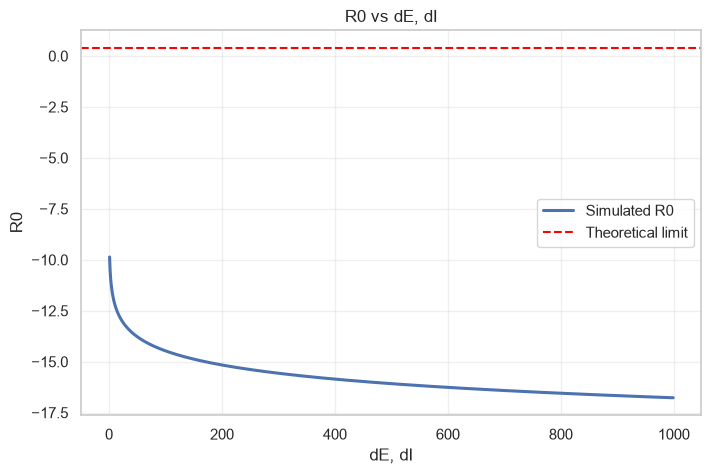
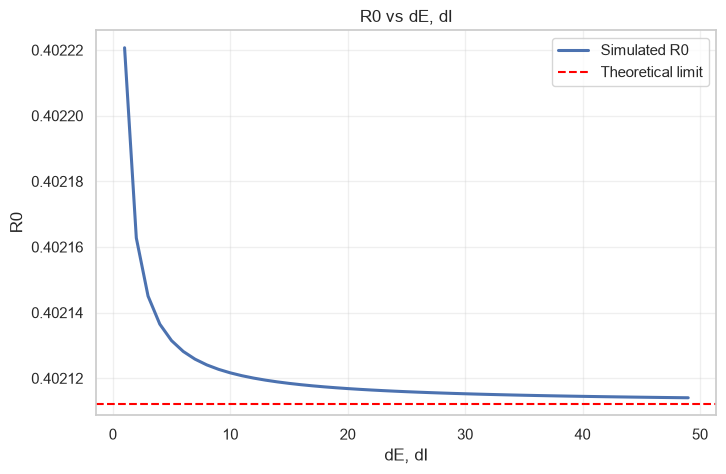
rough limit for R0 validated

diff --git a/src/core/solvers.py b/src/core/solvers.py
@@ -48,7 +48,7 @@ def compute_mu_star(params: SEIRSParameters, beta_field, gamma_field):
     # Find largest eigenvalue
     # Use eigs with appropriate parameters for better convergence
     try:
-        lambda_max, _ = spla.eigs(K_op, k=1, which='LM', maxiter=1000, tol=1e-6)
+        lambda_max, _ = spla.eigs(K_op, k=1, which='LR', maxiter=1000, tol=1e-6)
         mu_star = 1 / lambda_max[0].real
     except Exception as e:
         print(f"Eigenvalue computation failed: {e}")